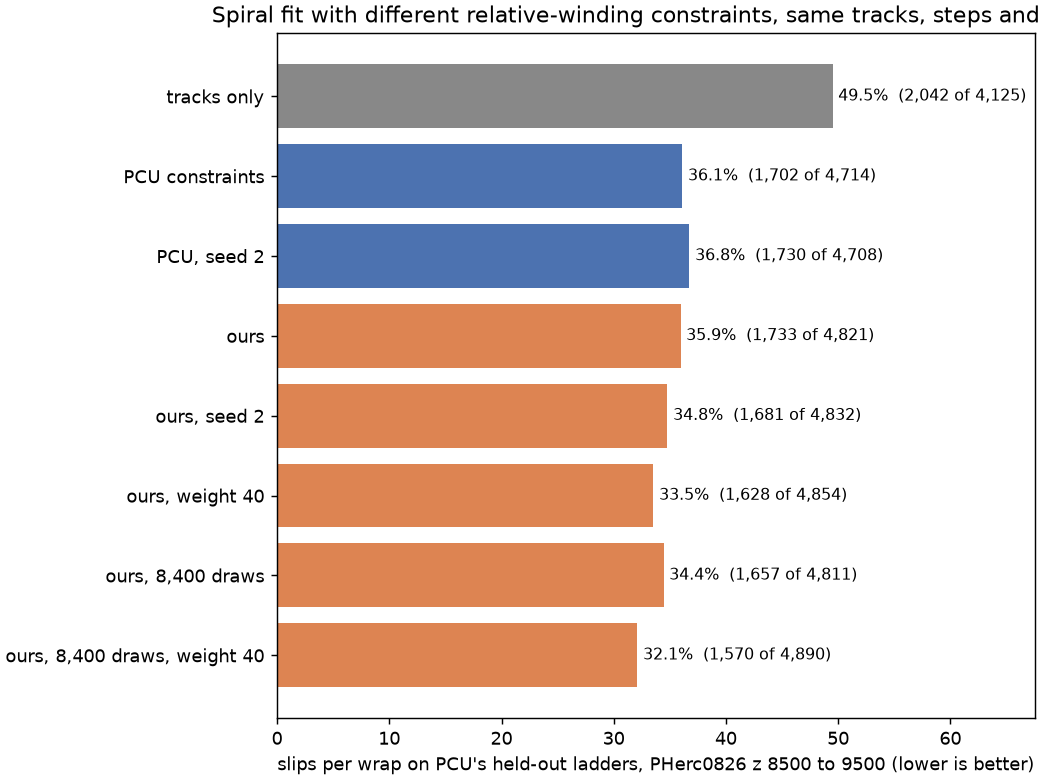
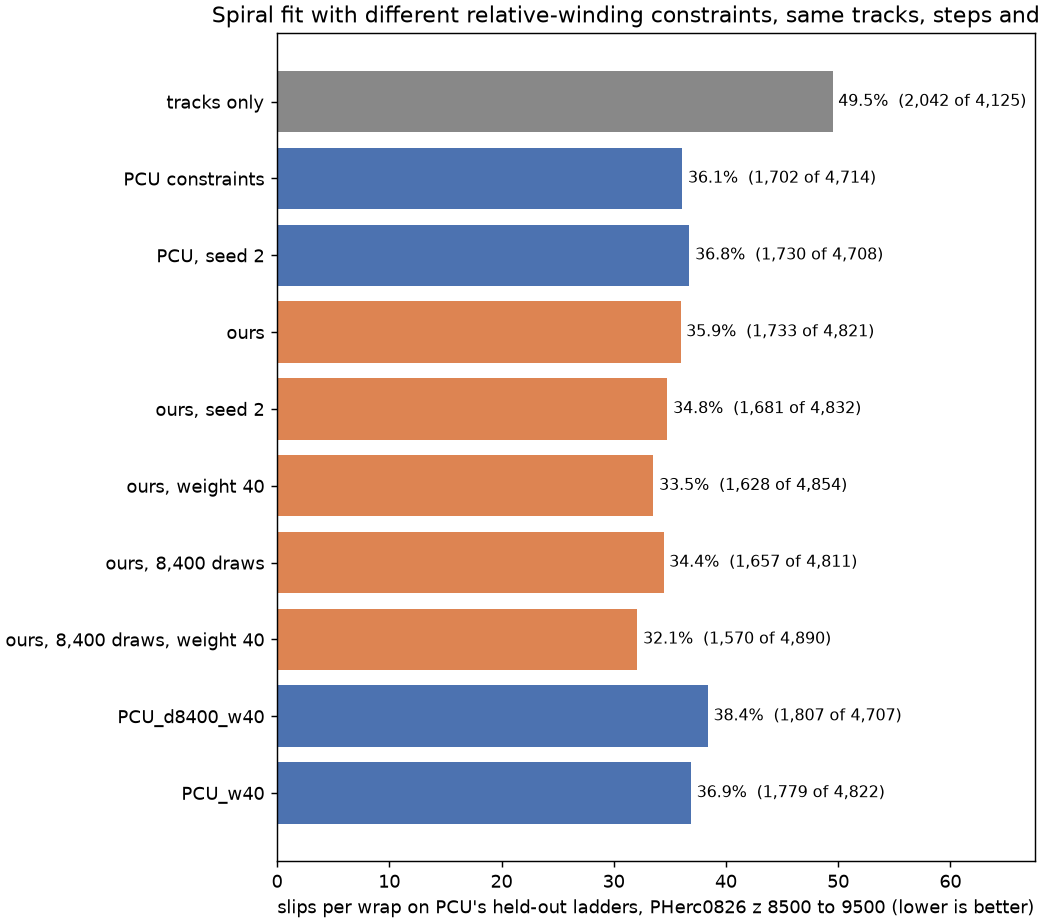
Controls: PCU's constraints get worse under the settings that take ours to 32.1%
The gain is the constraint set's. Ten runs charted; one-sentence result in the README.

Changed region(s): [[0.0, 0.0923, 1.0, 1.0], [0.1846, 0.0, 1.0, 0.0923], [0.8, 0.0923, 0.9846, 0.1538]]

diff --git a/README.md b/README.md
@@ -139,7 +139,7 @@ The band file for the fitter is built: z 8500 to 9492 every 16 (63 slices, PCU's
 
 ![slips per wrap](figures/e03/fits/slips_per_wrap.png)
 
-PCU published 50.1% and 36.3% for the first two rows on a T4; the reproduction here is within half a point of both, so the third row is comparable to their numbers. Ours matches PCU's constraint set on PCU's own scroll, with 2% more assigned pairs and 10% fewer unassigned points; the difference in slips (35.9 against 36.1) is noise. What differs is the source: PCU's ladders are certified against a global winding field and a density model; ours come from the cosine, the normals and grad_mag of one Lasagna run, with the sign read off a tracks-only fit, and nothing else.
+PCU published 50.1% and 36.3% for the first two rows on a T4; the reproduction here is within half a point of both, so the third row is comparable to their numbers. At PCU's settings and seed, ours matches PCU's constraint set on PCU's own scroll, with 2% more assigned pairs and 10% fewer unassigned points; the difference in slips (35.9 against 36.1) is noise. The second round below separates the two. What differs is the source: PCU's ladders are certified against a global winding field and a density model; ours come from the cosine, the normals and grad_mag of one Lasagna run, with the sign read off a tracks-only fit, and nothing else.
 
 What the first fit did not do: it satisfied 27% of our ladders against 47% of PCU's. With ten times the ladders at the same 840 draws per step, each of ours was sampled a tenth as often. So the second round (same pod recipe, five more fits) varied the seed, the draw rate and the strip weight:
 
@@ -151,7 +151,9 @@ What the first fit did not do: it satisfied 27% of our ladders against 47% of PC
 | ours, strip radius weight 40 | 33.5% (1,628 of 4,854) | 4,854 | 1,081 | 29.6% |
 | ours, 8,400 draws and weight 40 | **32.1%** (1,570 of 4,890) | 4,890 | 1,029 | 40.5% |
 
-Over two seeds at PCU's settings, ours averages 35.4% against PCU's 36.4%. Letting the fitter use the density (ten times the draws, double the radius weight) takes it to 32.1%, four points below PCU's best, with the most assigned pairs and the fewest unassigned points of any run. [CONTROL: the same two settings on PCU's file: PCU_W40 and PCU_D8400_W40.]
+Over two seeds at PCU's settings, ours averages 35.4% against PCU's 36.4%. Letting the fitter use the density (ten times the draws, double the radius weight) takes ours to 32.1%, four points below PCU's best, with the most assigned pairs and the fewest unassigned points of any run. The same two settings on PCU's file do not help it: weight 40 gives 36.9% (1,779 of 4,822), both settings 38.4% (1,807 of 4,707). The gain comes from the constraint set, not from the settings.
+
+**In one sentence:** on PHerc0826, relative-winding constraints built from one Lasagna run and nothing else take the spiral fitter from 49.5% to 32.1% slips per wrap on PCU's held-out ladders, four points further than PCU's certified constraints at their best, with no human step.
 
 Pod time: about 3.5 hours including a first attempt that filled the 50 GB disk. Files: `figures/e03/fits/` (eval lines, satisfaction metrics); the three fitted grids (19 MB each) are kept outside the repository: SHA256 A0 `faa40111...`, PCU `0b2a8aa3...`, ours `b3738dea...`.
 
